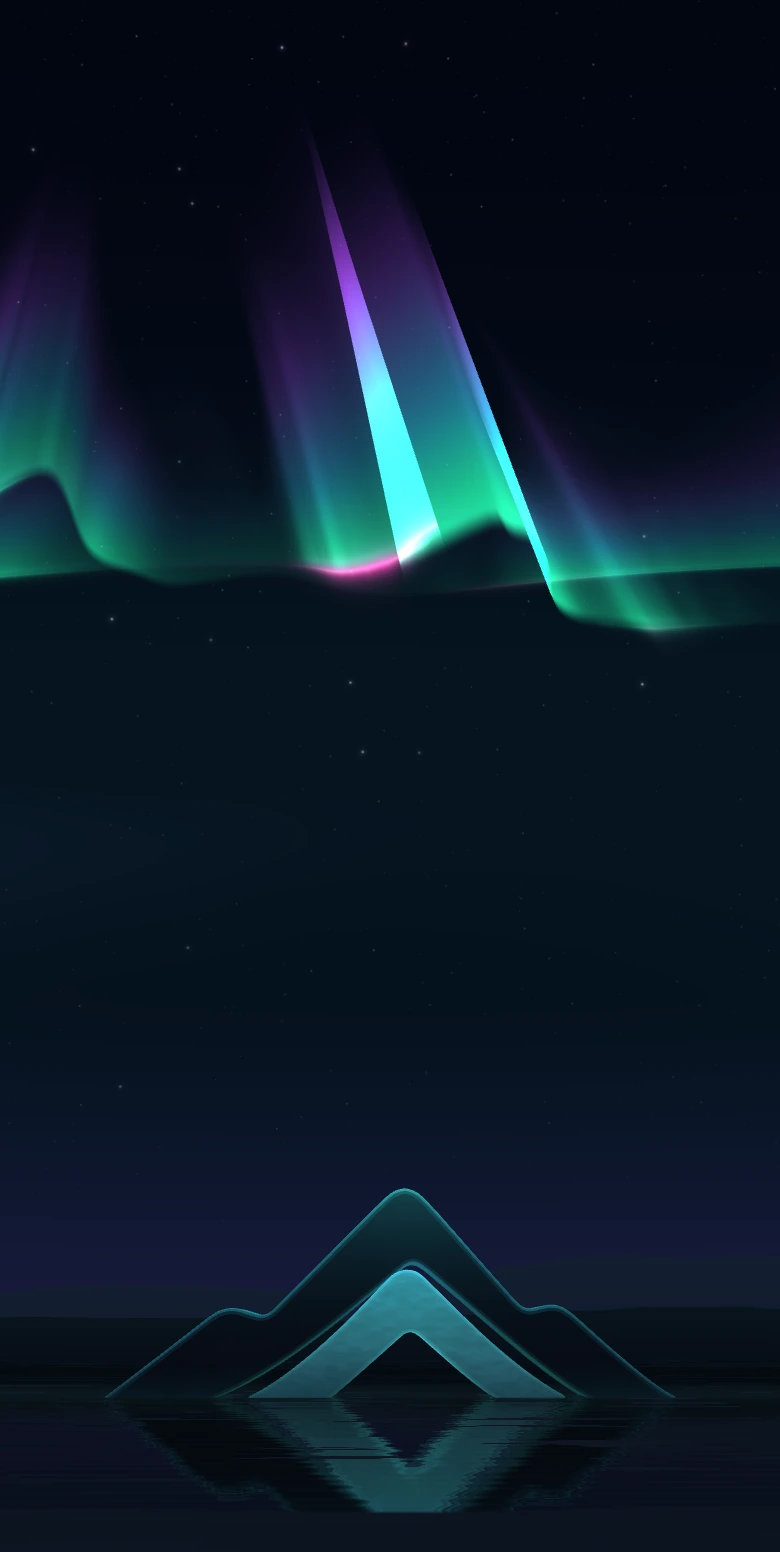
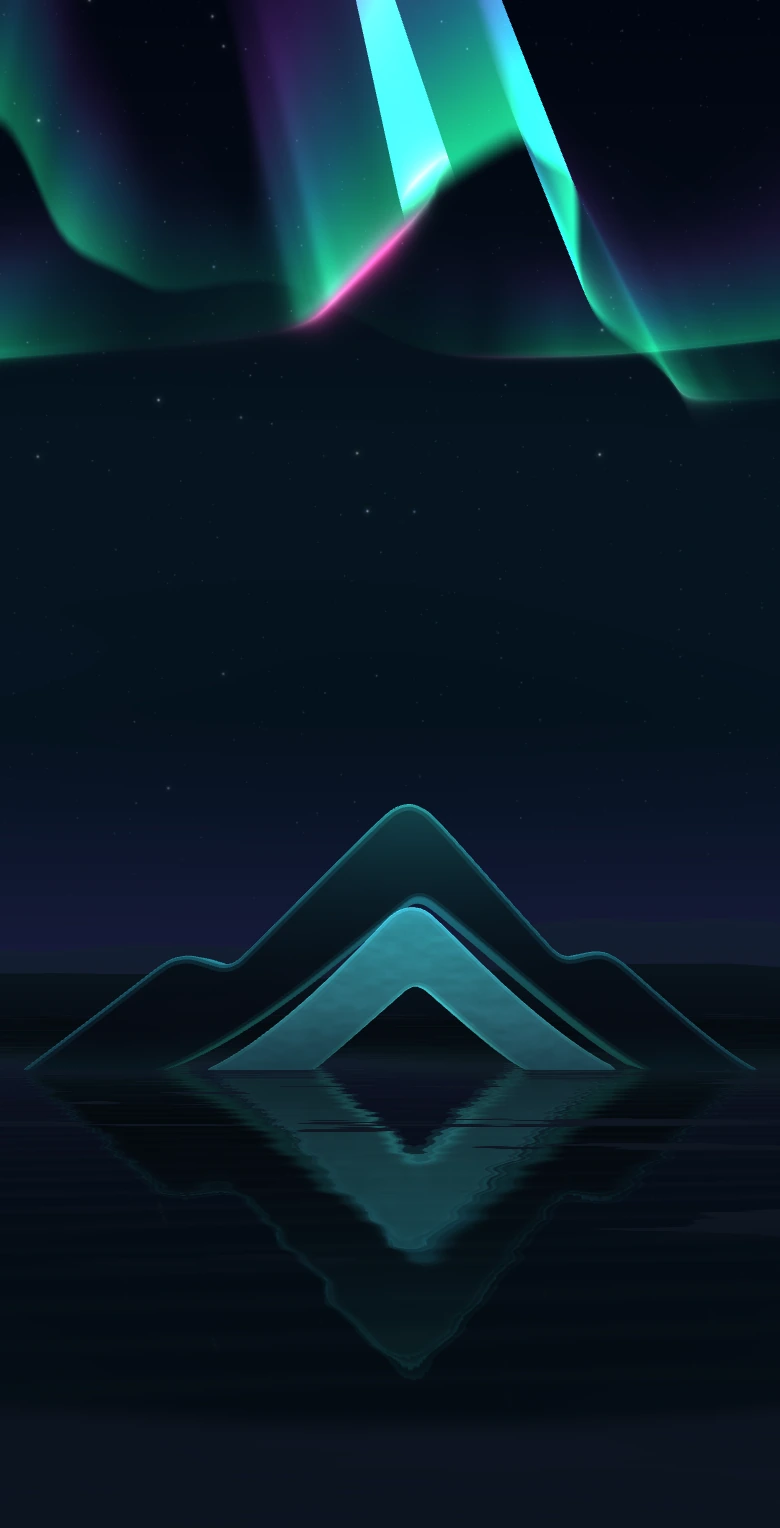
Iguala la altura del paisaje en telefono con Inicio
Negocios, Invitaciones y Estudio usan en telefono el mismo encuadre de
Inicio, con el lago visible, y el texto queda entre la aurora y la cima.

diff --git a/src/site/landscape/landscape-scene.js b/src/site/landscape/landscape-scene.js
@@ -418,8 +418,9 @@ function profile() {
 
 // Page heroes reuse the home camera solve with their own framing: the massif
 // clears the copy and the low sun stays out of it. Home has no composition.
-function pageView(side, width) {
-  if (width <= 700) return { zoom: 1.195, shift: 0, summit: 0.6408, share: 0.62, sunX: -0.66, sunY: 0.24 };
+function pageView(side, width, height) {
+  // Phones match the home landscape: its summit follows that page's title size.
+  if (width <= 700) return { zoom: 1, shift: 0, summit: (402 + 0.2907 * (Math.min(width, 494) - 390)) / height, share: 0.95, sunX: -0.56, sunY: 0.175 };
   if (width < 1000) return { zoom: 1, shift: 0, summit: 0.76, share: 0.56, sunX: -0.74, sunY: 0.2 };
   return { zoom: 1, shift: { right: 0.134, left: -0.134, center: 0 }[side] ?? 0, summit: side === 'center' ? 0.655 : 0.6213, share: 0.445,
     sunX: { right: 0.86, left: -0.86, center: -0.66 }[side] ?? -0.66, sunY: 0.235 };
@@ -624,7 +625,7 @@ export async function createLandscapeScene(stage, { reduced = false, paused = fa
     camera.fov = mobile ? 46 : 34;
     camera.clearViewOffset();
     const composition = stage.dataset?.composition;
-    const view = composition ? pageView(composition, width) : null;
+    const view = composition ? pageView(composition, width, height) : null;
     // Star size is set in device pixels, so stars stay crisp and round at any resolution.
     sky.material.uniforms.pixelAngle.value = (camera.fov * Math.PI / 180) / (height * ratio * (view?.zoom ?? 1));
     if (water.getRenderTarget) {

diff --git a/src/site/styles/landscape-page.css b/src/site/styles/landscape-page.css
@@ -37,13 +37,15 @@ body .has-3d-hero>.page-landscape{width:calc(100% + 128px);margin-left:-64px;mar
  .page-landscape h1 span{display:block}
 }
 @media(max-width:700px){
- .page-landscape{--copy-top:41.5%;min-height:max(calc(100svh - 68px),760px)}
+ .page-landscape{--summit:calc(402px + .2907*(min(100vw,494px) - 390px));min-height:max(calc(100svh - 80px),660px)}
+ .page-landscape .landscape-poster img{position:absolute;left:0;width:100%;height:auto;top:calc(var(--summit) - 103.08vw)}
  body .has-3d-hero>.page-landscape{width:calc(100% + 44px);margin-left:-22px;margin-right:-22px}
- .page-landscape-copy{left:22px;right:22px}
+ .page-landscape-copy{left:22px;right:22px;top:auto;bottom:calc(100% - var(--summit) + 18px)}
  .page-landscape .eyebrow{display:none}
- .scene .page-landscape h1{font-size:clamp(34px,10.2vw,40px)}
- .page-landscape .lead{margin-top:10px;font-size:16px}
- .page-landscape .horizon-actions{margin-top:14px}
+ .scene .page-landscape h1{font-size:clamp(32px,9.2vw,38px)}
+ .page-landscape .lead{margin-top:8px;font-size:16px;line-height:1.4}
+ .page-landscape .price{margin-top:2px}
+ .page-landscape .horizon-actions{margin-top:12px}
  .page-landscape .cta{display:flex}
 }
 @media(prefers-reduced-motion:reduce){.page-landscape-copy{animation:none}.page-landscape .cta,.page-landscape .cta span{transition:none}.page-landscape .cta:focus-visible{animation:none}}
